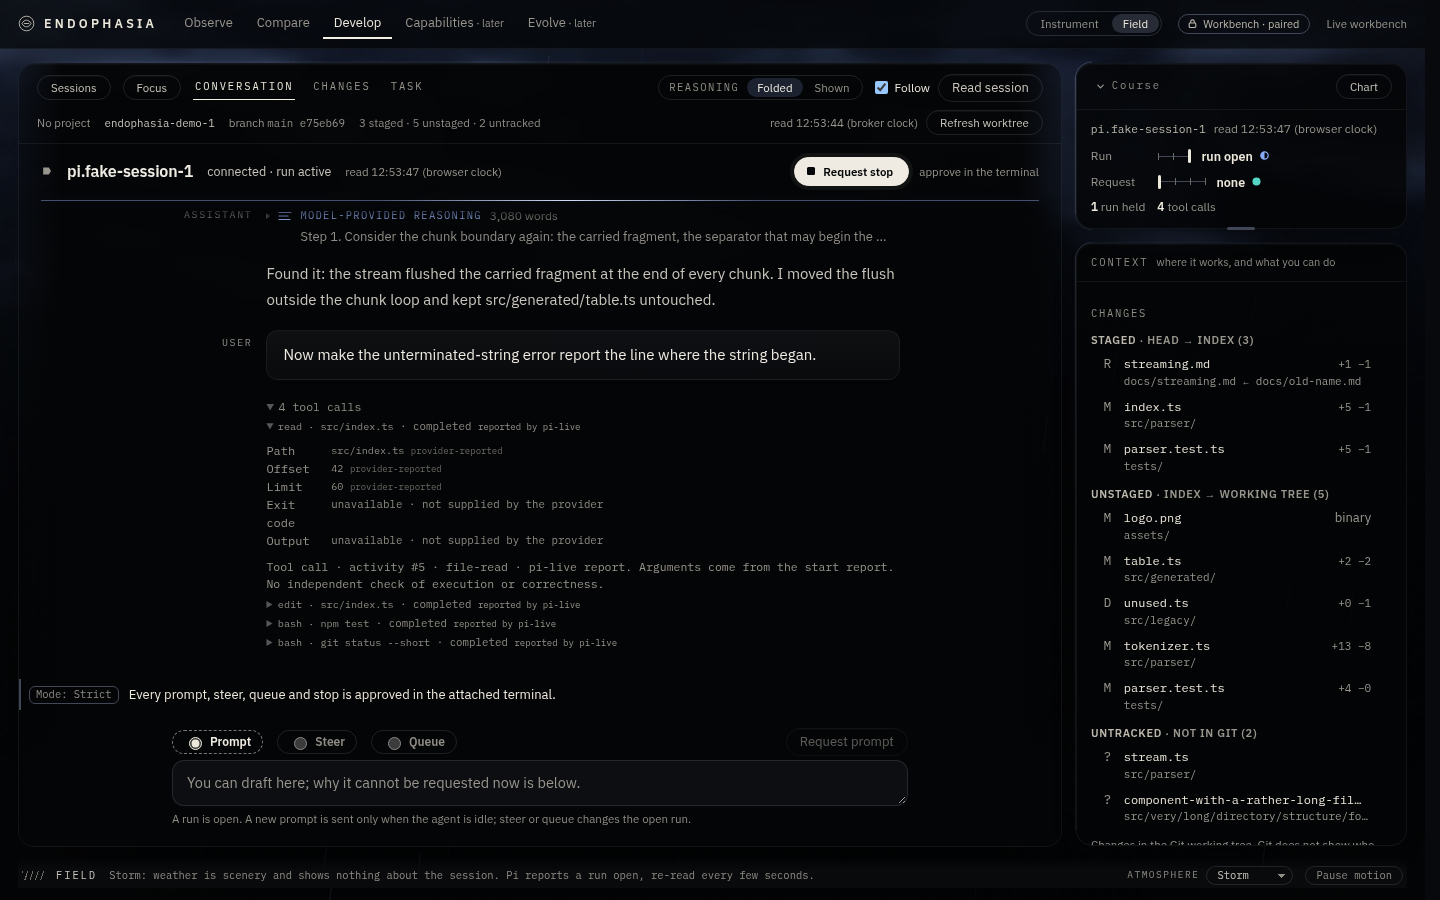
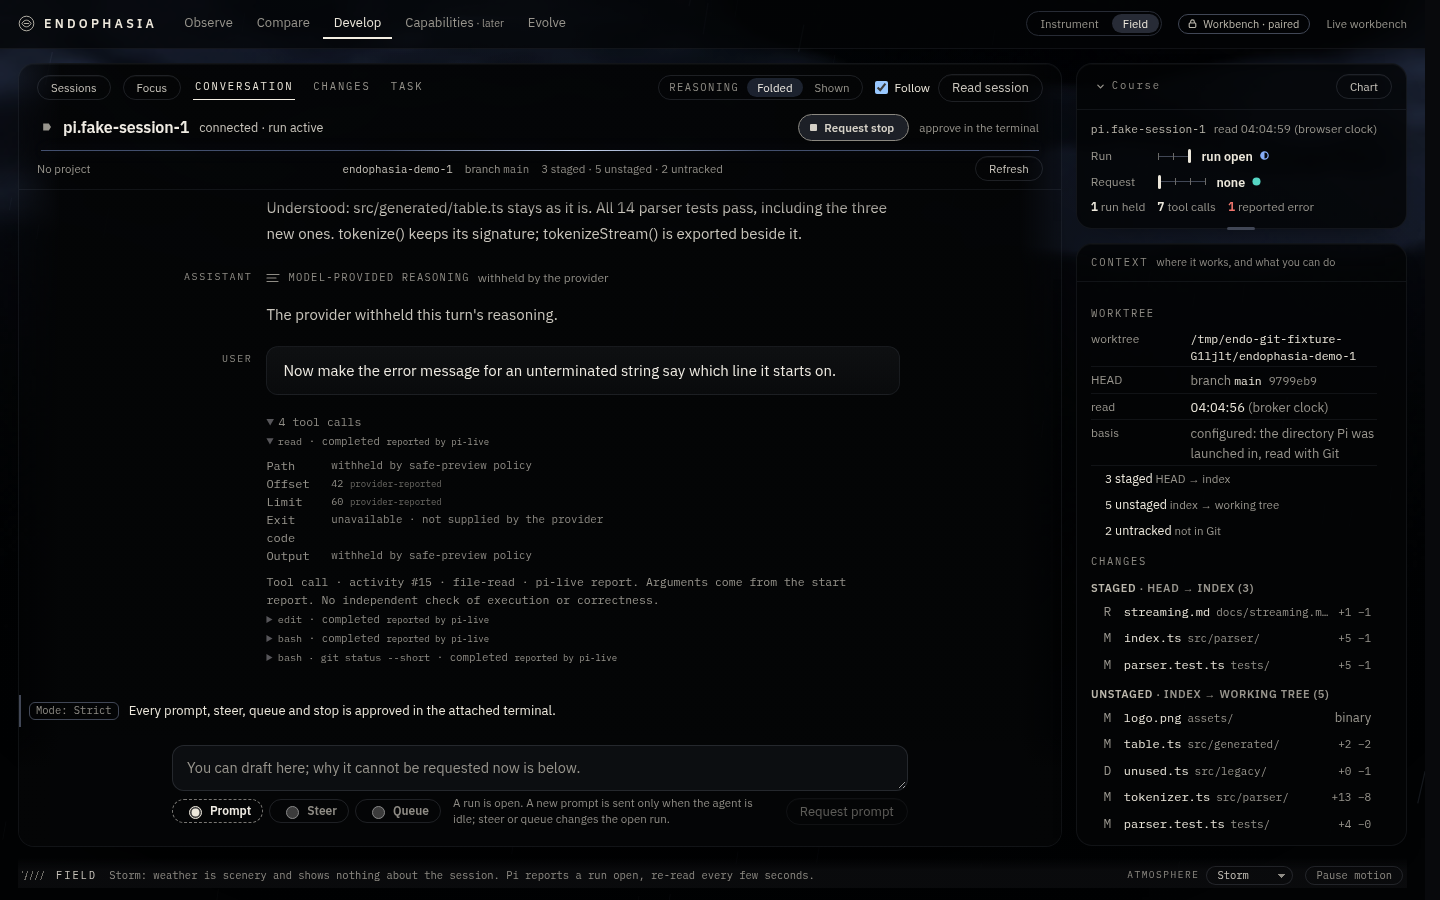
docs(readme): refresh Field hero screenshot for the denser workbench

diff --git a/README.md b/README.md
@@ -32,7 +32,7 @@ for checking what coding agents actually did, and keeping the record for every c
 
 <br>
 
-<img src="docs/images/readme-hero-field-storm-1440.png" alt="Endophasia Develop workbench in Field mode with Storm atmosphere, Course gauges, folded reasoning, expanded Pi tool-call inspection, and live Git changes" width="100%">
+<img src="docs/images/readme-hero-field-storm-1440.png" alt="Endophasia Develop workbench in Field mode with Storm atmosphere: one compact head with the session, a graphite Request stop and the worktree; folded model-provided reasoning; four Pi tool calls, the first opened to its reported arguments; Course gauges; and a Context column that leads with the worktree's staged, unstaged and untracked counts above the changed files" width="100%">
 <p><sub><strong>Field (Storm)</strong> — live <em>Course</em> gauges, folded model-provided reasoning, inspectable tool calls with explicit safe-preview &amp; provenance labels, Git tree changes and terminal-gated Strict mode (synthetic fixture; weather is scenery).</sub></p>
 
 </div>
